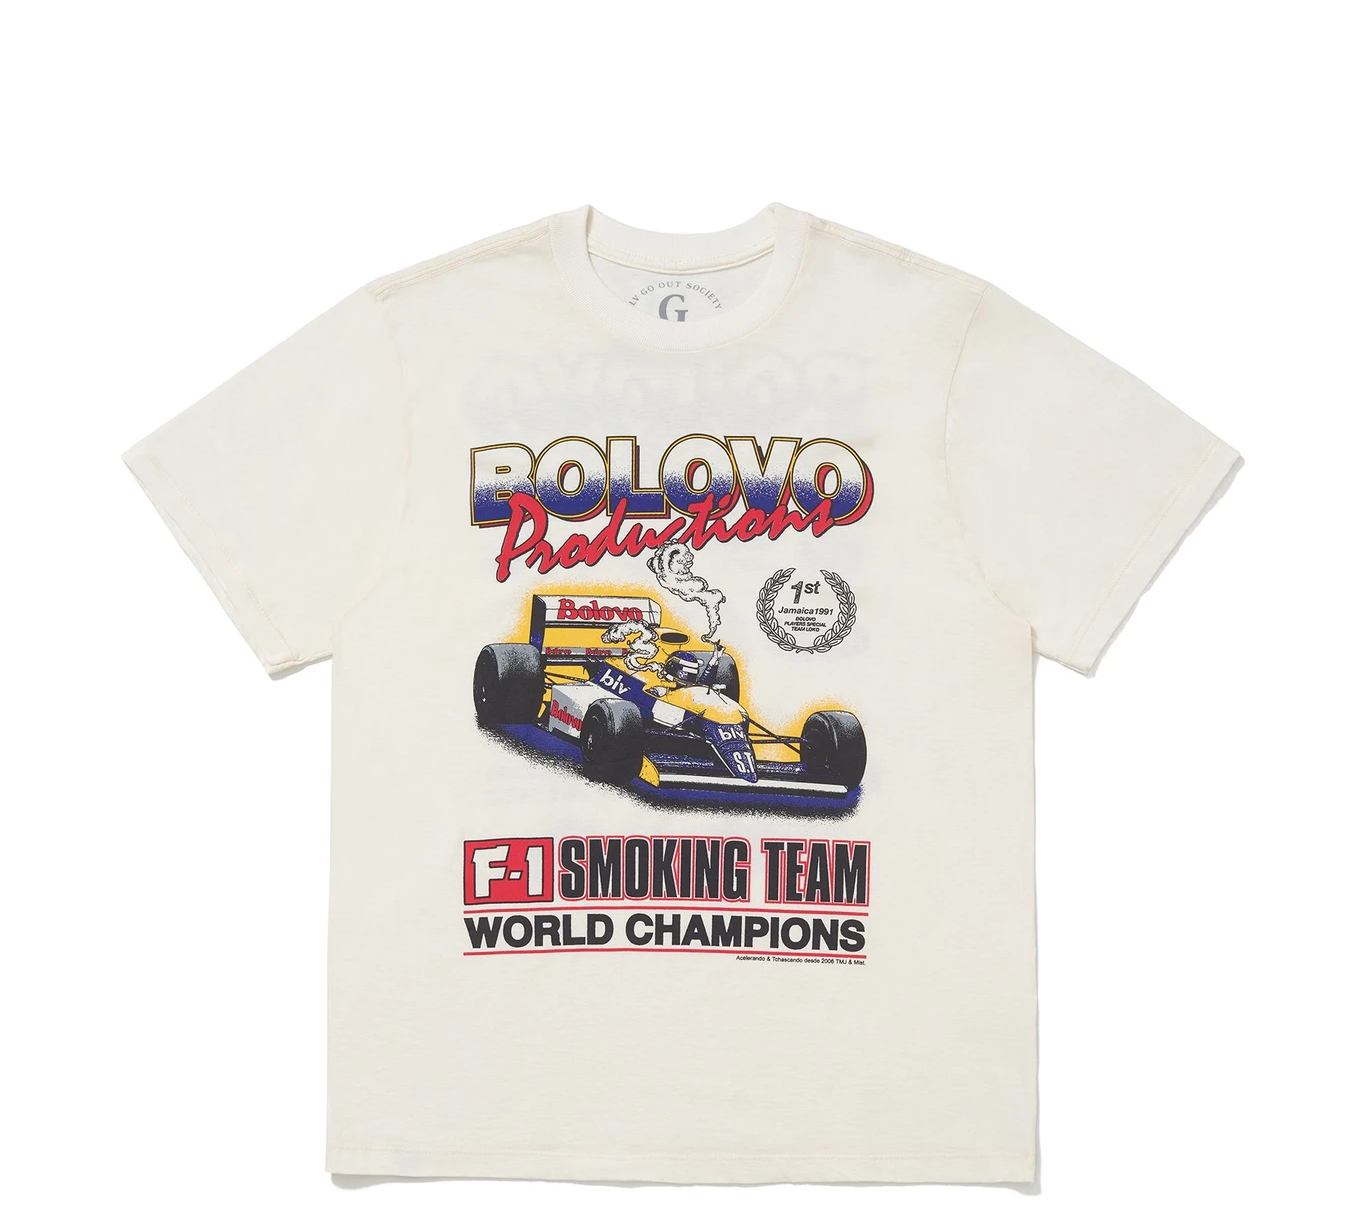
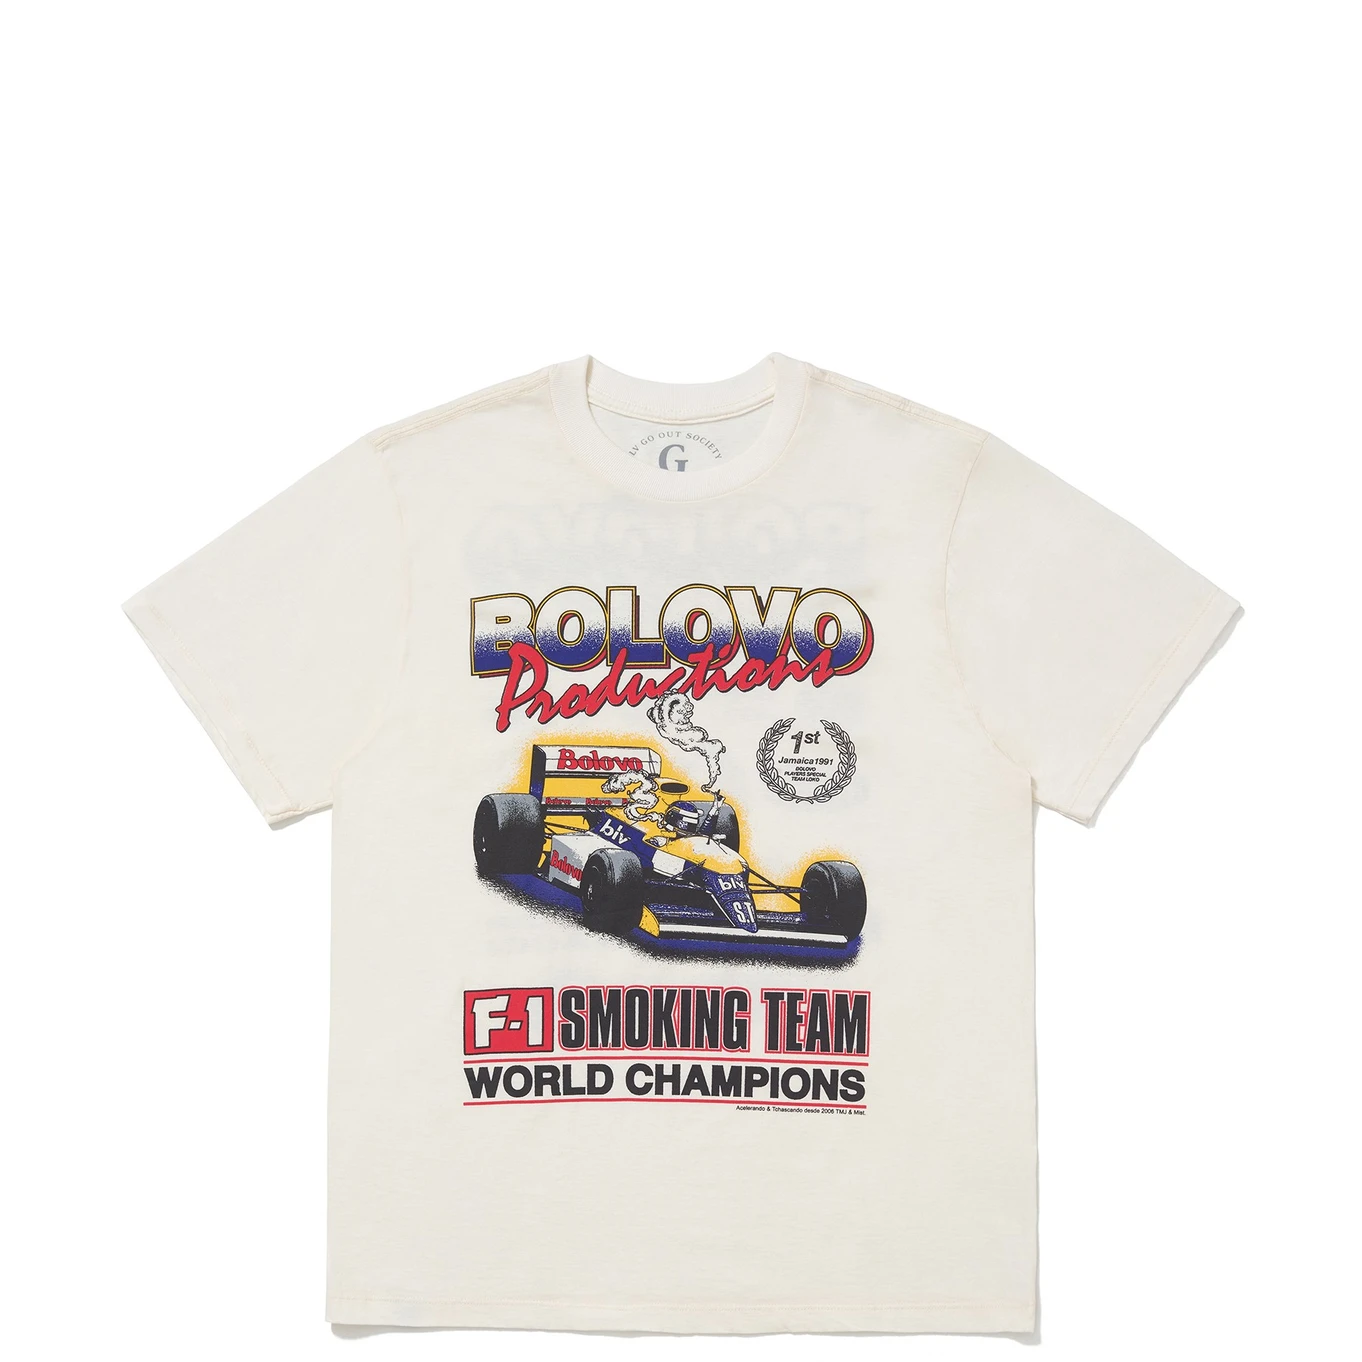
Creating Carousel from Already Responsive Product Image

Changed region(s): [[0.0925, 0.1525, 0.9251, 0.8236], [0.4009, 0.9761, 0.7709, 1.0], [0.2467, 0.9456, 0.4009, 1.0]]

diff --git a/script.js b/script.js
@@ -22,3 +22,20 @@ function exibirElemento($b, $e, elementos) {
   exibirElemento("medidas", "medidasProduto", ["medidasProduto", "composicaoPorduto", "lavagemProduto"]);
   exibirElemento("composicao", "composicaoPorduto", ["medidasProduto", "composicaoPorduto", "lavagemProduto"]);
   exibirElemento("lavagem", "lavagemProduto", ["medidasProduto", "composicaoPorduto", "lavagemProduto"]);
+
+
+  var swiper = new Swiper(".bannerProductImg", {
+    direction: "horizontal",
+    slidesPerView: 1,
+    mousewheel: true,
+    pagination: {
+      el: ".swiper-pagination",
+      type: "progressbar",
+    },
+    breakpoints: {
+      1024: {
+        direction: "vertical",
+        slidesPerView: 1.08,
+      },
+    },
+  });

diff --git a/swiper.css b/swiper.css
@@ -27,3 +27,27 @@ body {
 .bannerBestSellers .swiper-button-prev:hover svg {
     transform: translateY(45%);
 }
+
+.swiper-pagination .swiper-pagination-progressbar-fill {
+    background-color: black;
+}
+
+.swiper-pagination {
+    top: auto !important; 
+    bottom: 0 !important;
+    width: 0.1vh !important;
+}
+
+@media (min-width: 1024px) {
+    .swiper-pagination {
+        width: 0.1vh !important;
+        height: 100% !important;
+    }
+}
+
+@media (max-width: 1024px) {
+    .swiper-pagination {
+        height: 0.3vh !important;
+        width: 100% !important;
+    }
+}

diff --git a/produto.php b/produto.php
@@ -9,6 +9,7 @@
     <script src="https://cdn.tailwindcss.com"></script>
 
     <link rel="stylesheet" href="https://cdn.jsdelivr.net/npm/swiper@11/swiper-bundle.min.css" />
+
     <link rel="stylesheet" href="/swiper.css">
 </head>
 
@@ -41,15 +42,33 @@
         </nav>
     </header>
 
-    <main class="px-[4vh]">
+    <main class="lg:px-[4vh]">
         <!-- sessão do produto -->
         <section class="w-full lg:flex justify-center">
             <!-- imagem do produto -->
-            <div class="flex w-full lg:w-1/2 justify-center">
-                <img src="/img/camisaBolovo.png" class="">
+            <div class="flex w-full lg:w-1/2 justify-center lg:py-[6vh]">
+                <div class="swiper bannerProductImg h-full lg:h-[80vh]">
+                    <div class="swiper-wrapper lg:ml-[4vh]">
+                        <div class="swiper-slide">
+                            <img src="/img/camisaBolovo.png" class="h-full">
+                        </div>
+                        <div class="swiper-slide">
+                            <img src="/img/camisaBolovo2.png" class="h-full">
+                        </div>
+                        <div class="swiper-slide">
+                            <img src="/img/camisaBolovo.png" class="h-full">
+                        </div>
+                        <div class="swiper-slide">
+                            <img src="/img/camisaBolovo.png" class="h-full">
+                        </div>
+                    </div>
+                    <div class="swiper-pagination">
+                        <span class="swiper-pagination-progressbar-fill"></span>
+                    </div>
+                </div>
             </div>
             <!-- Dados do produto -->
-            <div class="flex flex-col lg:w-1/3 mt-[8vh]">
+            <div class="flex flex-col lg:w-1/3 mt-[8vh] px-[4vh]">
                 <h2 class="text-md font-semibold">Camiseta Sloking Team Off White</h2>
                 <span class="text-md">R$189,00</span>
                 <ul class="flex justify-between py-[4vh] uppercase text-sm">
@@ -129,13 +148,14 @@
                             _Obs: A coloração dos produtos em fotos externas ou de campanha podem apresentar alterações. Na dúvida sobre a cor real do produto, veja a foto com fundo branco._
                         </p>
                     </div>
-                    
+
                     <div id="lavagemProduto" class="hidden text-sm">
                         <p>Lavar na máquina com água fria. Secar no varal. Não usar alvejante. Não deixar de molho. Não colocar na secadora. Não lavar a seco. Passar do lado avesso em temperatura média.</p>
                     </div>
                 </div>
             </div>
         </section>
+
     </main>
 
     <footer class="mt-[10vh] bg-gray-900 p-[2vh] text-gray-400 text-center space-y-[2vh]">
